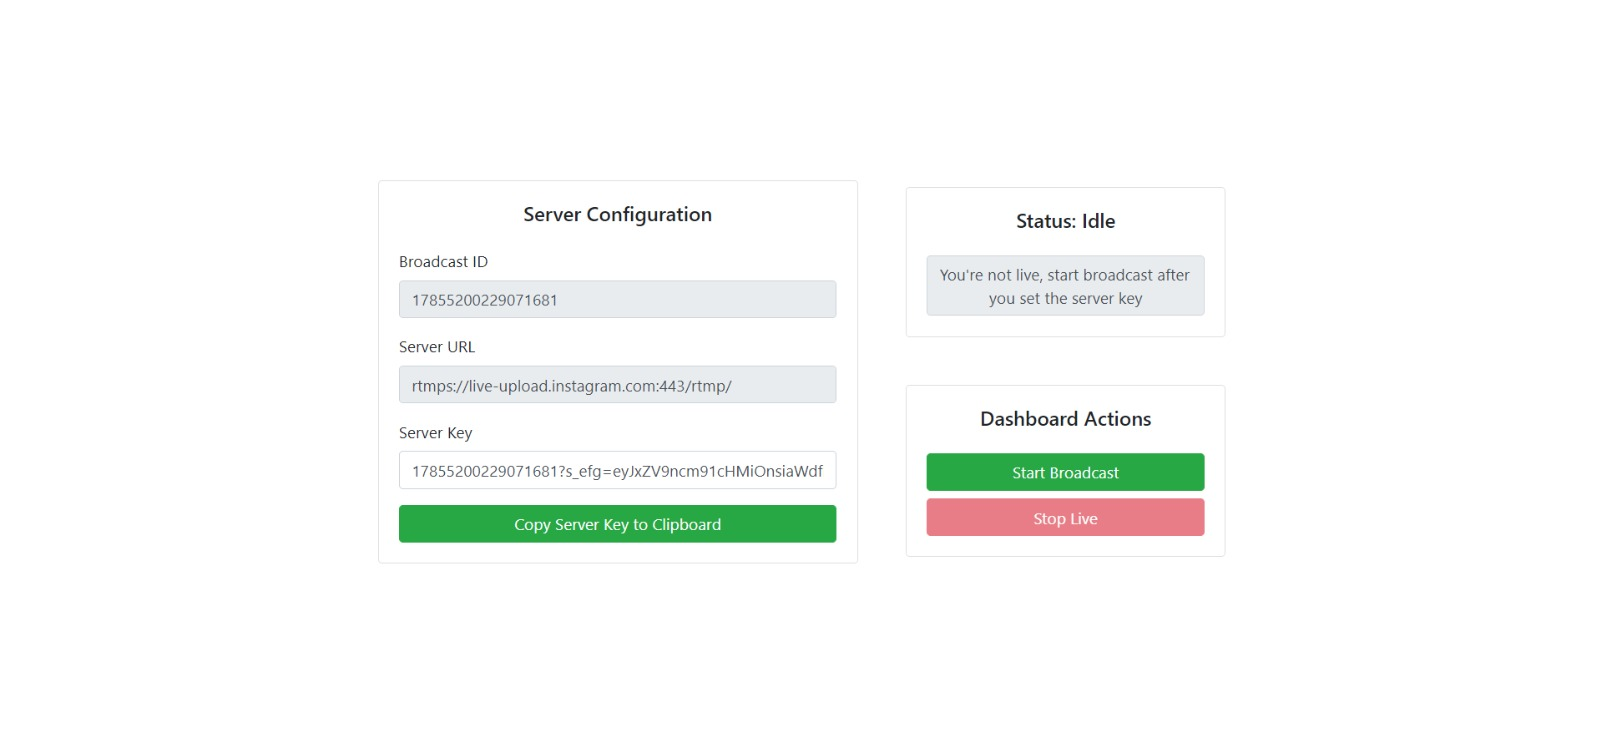
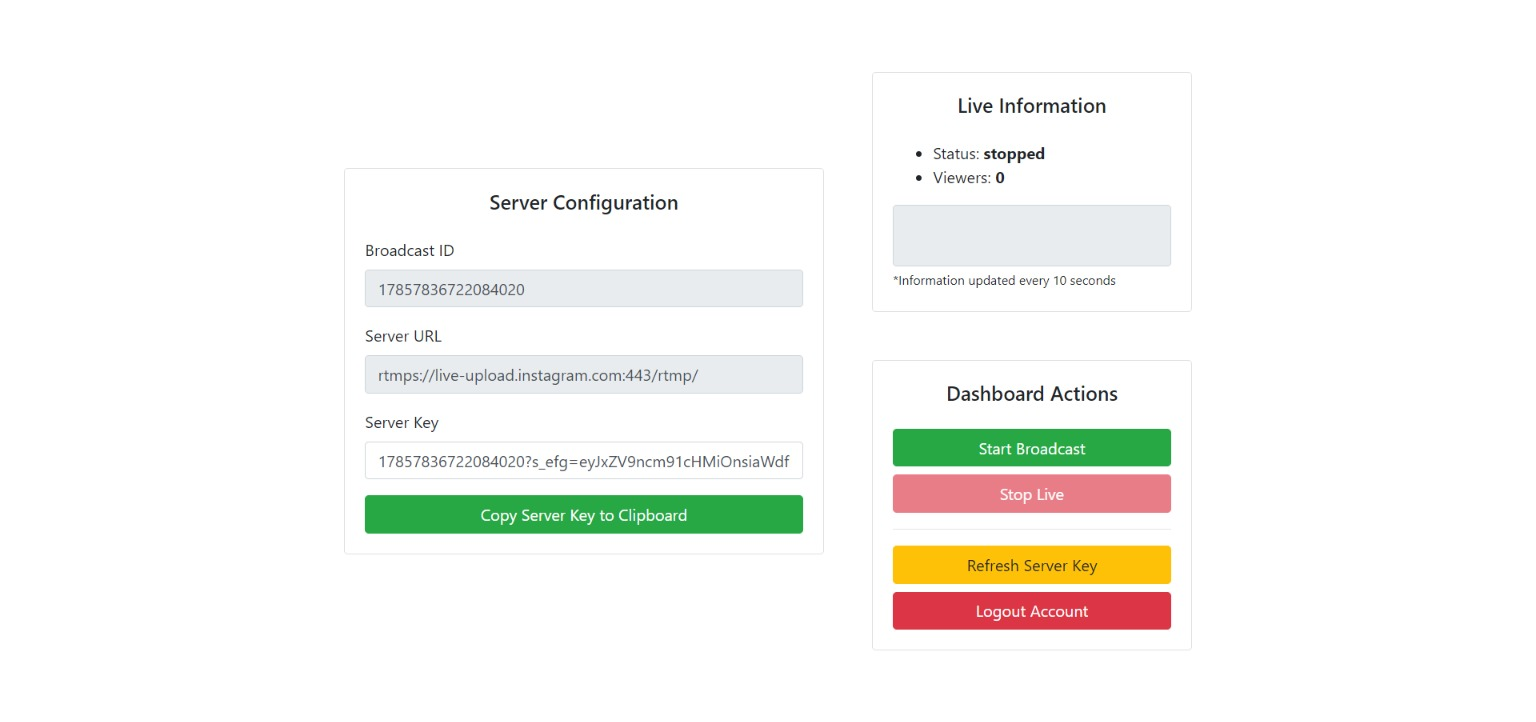
update screenshot

diff --git a/README.md b/README.md
@@ -1,7 +1,7 @@
 # InstaLiveWeb
 
 > InstaLiveWeb is a Python Flask webapp that create a Instagram Live and provide you a rtmp server and stream key to streaming using sofwares like OBS-Studio.
-> ![detail v0.2](detail.png)
+> ![detail v0.3](detail.png)
 
 ## Installation
 
